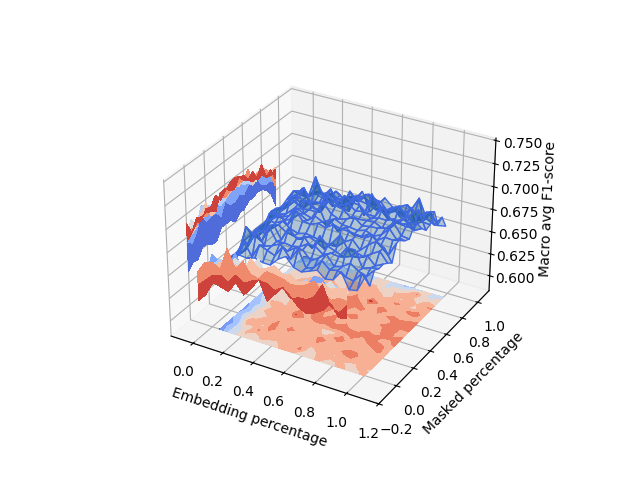
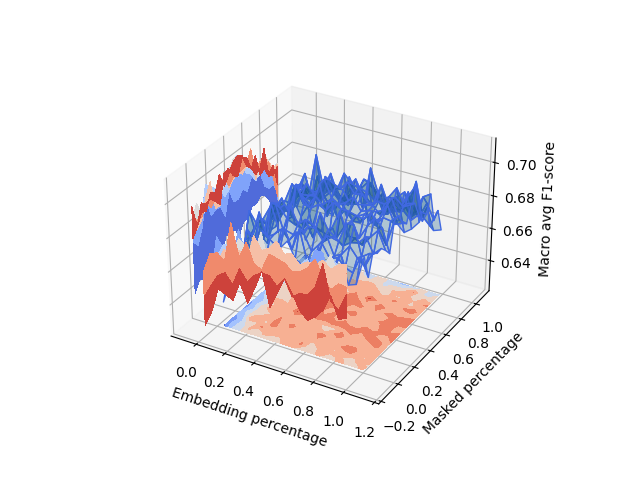
Corrected the range of the graph

diff --git a/Encoder_classifier/read_results.py b/Encoder_classifier/read_results.py
@@ -68,9 +68,9 @@ ax.plot_surface(X, Y, Z, edgecolor='royalblue', alpha=0.3)
 # the 'walls' of the graph
 ax.contourf(X, Y, Z, zdir='x', offset=np.min(X)-0.2, cmap='coolwarm')
 ax.contourf(X, Y, Z, zdir='y', offset=np.min(Y)-0.2, cmap='coolwarm')
-ax.contourf(X, Y, Z, zdir='z', offset=np.min(Z)-0.05, cmap='coolwarm')
+ax.contourf(X, Y, Z, zdir='z', offset=np.min(Z)-0.01, cmap='coolwarm')
 
-ax.set(xlim=(np.min(X)-0.2, np.max(X)+0.2), ylim=(np.min(Y)-0.2, np.max(Y)+0.2), zlim=(np.min(Z)-0.05, np.max(Z)+0.05), xlabel='Embedding percentage', ylabel='Masked percentage', zlabel='Macro avg F1-score')
+ax.set(xlim=(np.min(X)-0.2, np.max(X)+0.2), ylim=(np.min(Y)-0.2, np.max(Y)+0.2), zlim=(np.min(Z)-0.01, np.max(Z)+0.01), xlabel='Embedding percentage', ylabel='Masked percentage', zlabel='Macro avg F1-score')
 
 plt.savefig('Encoder_classifier/3dPlot.png')
 plt.show()
